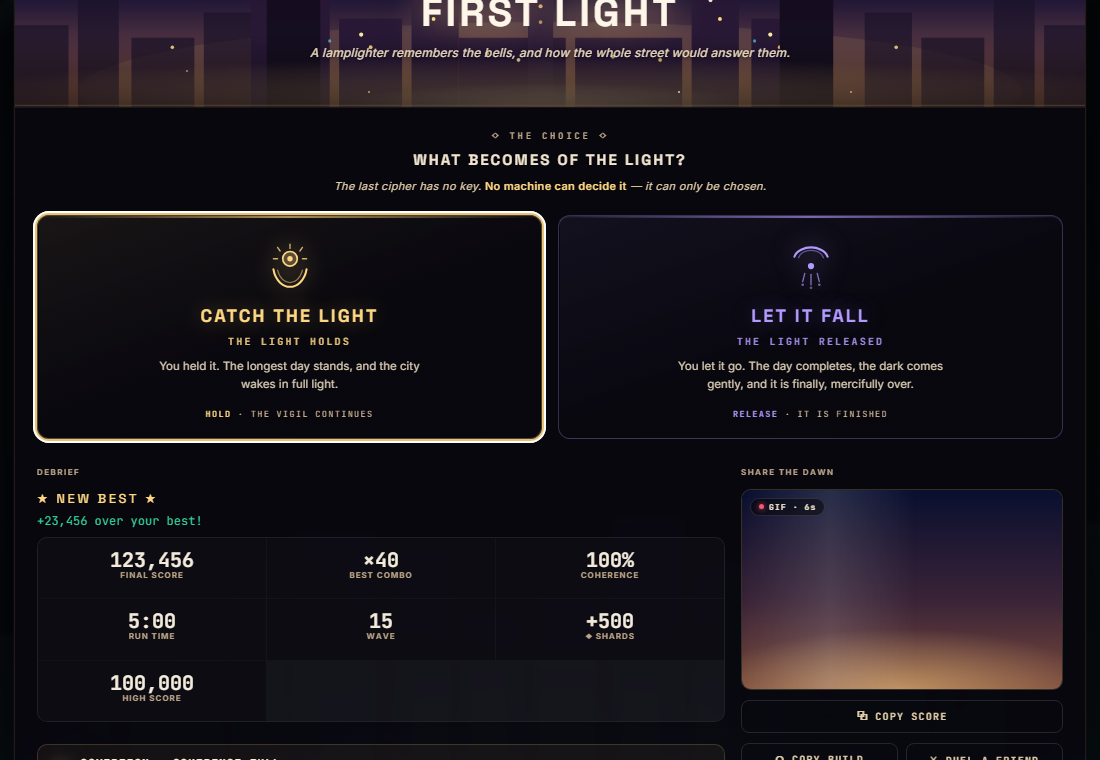
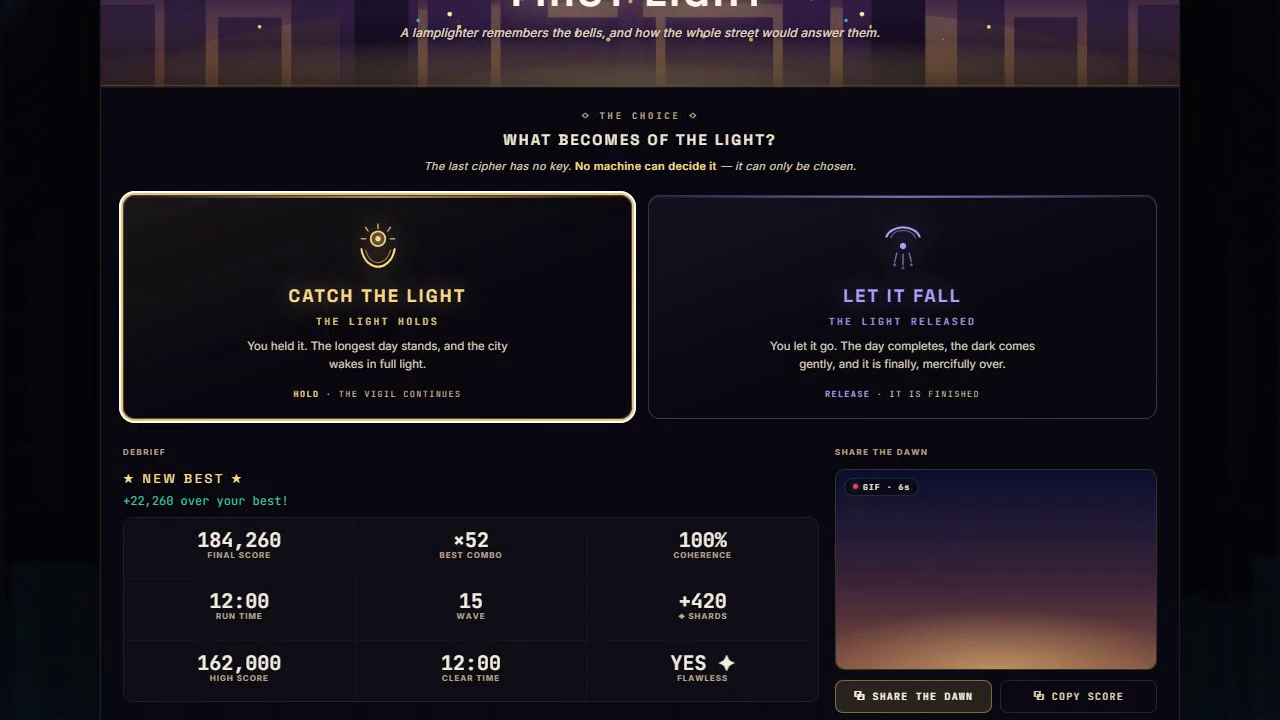
chore(lancefall): final submission polish — press art, mobile/visual integration, bundle-size accuracy
- press/: retaken gameplay + win screenshots for the new boss-cipher visuals, a 1080p FIRST LIGHT hero, a hi-res title cockpit, and the boss-cipher GIF; SOLSTICE_JAM_SUBMISSION screenshot/cover refs updated to match (mobile + press passes).
- src/ui.ts + src/style.css: final mobile-layer / visual integration tweaks left uncommitted by the finishing agents.
- docs: corrected the stale ~125 KB -> ~290 KB gzipped bundle claim across README + SUBMISSION + jam writeup to match the current build (255 KB JS + 36 KB CSS gzipped).

Gate: 1491 tests, production build, and minified-preview boot verified on desktop + mobile (0 console errors).

diff --git a/src/style.css b/src/style.css
@@ -2947,7 +2947,7 @@ body {
   display: flex;
   align-items: center;
   justify-content: space-between;
-  gap: 20px;
+  gap: 16px;
   padding: 0 6px 14px;
   border-bottom: 1px solid rgba(255, 255, 255, 0.05);
   flex-wrap: wrap;
@@ -3156,10 +3156,11 @@ body {
 .ck-coh {
   flex: 1;
   max-width: 400px;
-  min-width: 220px;
-  /* mock: 40px breathing room either side of the dial (relaxes toward 20px on narrow headers,
-     keeping the fluid-layout philosophy rather than a hard 40px that crowds small screens). */
-  margin: 0 clamp(20px, 4vw, 40px);
+  /* lower floor + slightly tighter side margins than the original (220px / 40px) so the
+     decorative dial absorbs the 4th STREAK stat's width and the header doesn't wrap — it
+     still sits comfortably wide (~270px) at normal widths. */
+  min-width: 170px;
+  margin: 0 clamp(14px, 3vw, 32px);
 }
 .ck-coh-row {
   display: flex;
@@ -3266,7 +3267,9 @@ body {
   align-items: stretch;
 }
 .ck-hstat {
-  padding: 4px 20px;
+  /* 15px (was 20) gives the 4th STREAK stat room without the header wrapping; a 5px trim that
+     reads the same but keeps BEST RUN/COMBO/SHARDS + STREAK on one line down to ~1060px. */
+  padding: 4px 15px;
   border-left: 1px solid rgba(255, 255, 255, 0.07);
   text-align: center;
 }
@@ -3293,21 +3296,19 @@ body {
 .ck-hstat-val.run { color: #22d3ee; }
 .ck-hstat-val.combo { color: #a78bfa; }
 .ck-hstat-val.shards { color: #4ade80; }
-/* 4.2 — daily-streak retention chip (header). Lives left of the stat columns. */
-.ck-streak {
+/* 4.2 — daily-streak nudge: a QUIET, compact amber 🔥N tucked after SHARDS (no label, so it adds
+   almost no width — keeps the header from wrapping). flex-end baselines it with the stat numbers;
+   only appears at a 2+ day streak. The .hidden rule follows so it wins over the flex display. */
+.ck-streak.ck-hstat {
   display: flex;
-  align-items: center;
-  gap: 4px;
-  align-self: center;
-  margin-right: 14px;
-  padding: 5px 12px;
-  border-radius: 999px;
-  border: 1px solid rgba(251, 146, 60, 0.5);
-  background: rgba(251, 146, 60, 0.12);
+  align-items: flex-end;
+  justify-content: center;
+  padding: 4px 4px 4px 2px;
+}
+.ck-hstat-val.streak {
   color: #fdba74;
-  font-size: 11px;
-  font-weight: 800;
-  letter-spacing: 0.06em;
+  font-size: 18px;
+  margin-bottom: 1px;
   white-space: nowrap;
 }
 .ck-streak.hidden { display: none; }
@@ -4492,8 +4493,7 @@ body {
 .ck-change-ship:focus-visible,
 .ck-customize:focus-visible,
 .ck-step:focus-visible,
-.ck-nav-btn:focus-visible,
-.ck-streak:focus-visible {
+.ck-nav-btn:focus-visible {
   outline: 2px solid #fff;
   outline-offset: 2px;
   box-shadow: 0 0 0 4px rgba(var(--accent-rgb, 34, 211, 238), 0.9);

diff --git a/src/ui.ts b/src/ui.ts
@@ -613,7 +613,8 @@ export class UI {
   private cohTrack!: HTMLElement;
   private hsCombo!: HTMLElement;
   private hsShards!: HTMLElement;
-  private hsStreak!: HTMLElement; // 4.2 — "🔥 N day streak" header chip (hidden below 2)
+  private hsStreak!: HTMLElement; // 4.2 — quiet "STREAK 🔥N" header stat column (hidden below 2)
+  private hsStreakVal!: HTMLElement; // the streak stat's value node
   private cockpitSolstice!: HTMLElement;
   private heroSeedRow!: HTMLElement;
   private heroTitle!: HTMLElement;
@@ -1167,15 +1168,23 @@ export class UI {
     this.hsCombo = el('div', { class: 'ck-hstat-val combo' }, '—');
     this.shardLine = el('div', { class: 'ck-hstat-val shards' }, '—');
     this.hsShards = this.shardLine;
-    // 4.2 — daily-streak retention chip; hidden until the player has a 2+ day streak.
-    this.hsStreak = el('div', { class: 'ck-streak hidden', title: 'Consecutive days played — keep it alive!' }, '');
+    // 4.2 — daily-streak nudge as a QUIET, compact 🔥N stat tucked after SHARDS (no label, so it
+    // adds almost no width — the header doesn't get pushed into wrapping). Baseline-aligned with
+    // the stat numbers via CSS. Hidden until a 2+ day streak; after SHARDS so BEST RUN stays
+    // :first-child (keeps its borderless leading edge). The tooltip carries the full meaning.
+    this.hsStreakVal = el('div', { class: 'ck-hstat-val streak' }, '');
+    this.hsStreak = el(
+      'div',
+      { class: 'ck-hstat ck-streak hidden', title: 'Consecutive days played — keep it alive!' },
+      this.hsStreakVal,
+    );
     const hdrRight = el(
       'div',
       { class: 'ck-hdr-right' },
-      this.hsStreak,
       el('div', { class: 'ck-hstat' }, el('div', { class: 'ck-hstat-lbl' }, 'BEST RUN'), this.hsBest),
       el('div', { class: 'ck-hstat' }, el('div', { class: 'ck-hstat-lbl' }, 'BEST COMBO'), this.hsCombo),
       el('div', { class: 'ck-hstat' }, el('div', { class: 'ck-hstat-lbl' }, 'SHARDS'), this.hsShards),
+      this.hsStreak,
     );
     const header = el('div', { class: 'ck-header' }, hdrLeft, coherence, hdrRight);
 
@@ -1289,6 +1298,7 @@ export class UI {
       'div',
       { class: 'ck-col ck-col-center' },
       this.centerSec,
+      this.cockpitSolstice, // SOLSTICE event banner — slim line above the run hero (only shows on the solstice)
       hero,
       this.infoBar,
       this.rewardRow,
@@ -1524,7 +1534,7 @@ export class UI {
     this.title = el(
       'div',
       { class: 'screen screen-title screen-cockpit' },
-      el('div', { class: 'ck-frame' }, header, this.cockpitSolstice, this.mainPanel, bottomNav, this.soundHint, this.dailyCaption),
+      el('div', { class: 'ck-frame' }, header, this.mainPanel, bottomNav, this.soundHint, this.dailyCaption),
       this.lightLance,
     );
   }
@@ -3119,13 +3129,14 @@ export class UI {
     this.hsBest.textContent = save.highScore > 0 ? save.highScore.toLocaleString() : '—';
     this.hsCombo.textContent = save.bestCombo > 0 ? `×${save.bestCombo}` : '—';
     this.hsShards.textContent = `◆ ${save.shards.toLocaleString()}`;
-    // 4.2 — show the streak chip only once a 2+ day streak is alive
+    // 4.2 — show the quiet STREAK stat only once a 2+ day streak is alive
     const streaking = save.playStreak >= 2;
     this.hsStreak.classList.toggle('hidden', !streaking);
-    if (streaking) this.hsStreak.textContent = `🔥 ${save.playStreak} day streak`;
+    if (streaking) this.hsStreakVal.textContent = `🔥${save.playStreak}`;
 
-    // ── CITY COHERENCE bar — REAL now: a save-derived %, dynamic tagline, a11y-safe eased fill.
-    //    Agrees with the cockpit backdrop + the BOMBE master meter (all decryption-led). ──
+    // CITY COHERENCE bar — REAL now: a save-derived %, dynamic tagline, a11y-safe eased fill.
+    // Agrees with the cockpit backdrop + the BOMBE master meter (all decryption-led). Also
+    // refreshed on closeModal so decrypting in THE BOMBE lands on a current bar.
     this.refreshCoherence(save);
 
     // NG+ toggle — appears only once the Sovereign has been felled

diff --git a/docs/SOLSTICE_JAM_SUBMISSION.md b/docs/SOLSTICE_JAM_SUBMISSION.md
@@ -57,7 +57,7 @@ This is my entry for **Best Ode to Alan Turing**.
 
 The honest headline: this was built **from scratch, for the jam** — first commit 8 June 2026, **674 commits over 13 days** — and it's a real game engine, not a single HTML file.
 
-- **No framework, all by hand.** Vanilla TypeScript, Canvas 2D, and the Web Audio API — no game engine, no UI library. A fixed-timestep simulation holds a steady **60 fps**, decoupled from one global time-scale so slow-motion and hit-stop layer for free; object pools keep the hot path allocation-free; and the dash uses *swept* collision so even the fastest dash never tunnels through an enemy. About **125 KB** gzipped, in one browser tab.
+- **No framework, all by hand.** Vanilla TypeScript, Canvas 2D, and the Web Audio API — no game engine, no UI library. A fixed-timestep simulation holds a steady **60 fps**, decoupled from one global time-scale so slow-motion and hit-stop layer for free; object pools keep the hot path allocation-free; and the dash uses *swept* collision so even the fastest dash never tunnels through an enemy. About **290 KB** gzipped, in one browser tab.
 - **The cipher is pure — and it never touches chance.** The whole code-breaking layer is built to draw **zero** randomness from the game's scoring. That sounds small; it's the part I'm proudest of. It means the **daily challenge is identical for every player on earth** — same enemies, same bullets, same cipher — and that bolting a brand-new code-breaking system on top couldn't shift that shared world by a single bit. A deterministic machine, provably unchanged. That felt like the right way to honour Turing.
 - **I made the cipher real, not a quiz.** The first version printed the answer as numbers and highlighted the next target — so you were matching numbers, not breaking a code. I tore it out: now the symbols sit on the boss, the key sits on the HUD, and nothing is highlighted. You genuinely read, deduce, and decode under fire. A wrong step just fizzles, so it stays *cryptanalysis*, not a memory test.
 - **1,400+ automated tests** — the part I almost never see in a jam. The whole simulation is covered, including a test that plays a cipher from start to finish and a guard that runs the daily seed and checks the entire wave-by-wave stream still matches, exactly, so the shared challenge can never silently drift. Every change went through the tests, a type-check, a production build, and an in-browser smoke run before it shipped.
@@ -66,7 +66,7 @@ The honest headline: this was built **from scratch, for the jam** — first comm
 
 > *[Video — upload the ~83-second trailer to YouTube (unlisted is fine) and paste the URL on its own line; dev.to auto-embeds it. File: `press/lancefall-trailer.mp4`.]*
 
-> *[Screenshots — upload `press/gameplay-cipher.png` (a cipher mid-decode), `press/firstlight-winframe.png` (the daybreak win), `press/the-choice.png` (the ending).]*
+> *[Screenshots — retaken & ready in `press/`; drag each into the editor: `gameplay-cipher.png` (a boss cipher mid-decode — READ THE KEY), `gameplay-combat.png` (a mid-run bullet-hell — weaving through bullet-streams and a wave of enemies), `the-choice.png` (the ending — "no machine can decide it", over a flawless win).]*
 
 ## Code
 
@@ -115,9 +115,11 @@ PUBLISH CHECKLIST — the steps only you can do:
 4. VIDEO. Upload the ~83s trailer (press/lancefall-trailer.mp4) to YouTube and
    paste the URL on its own line under "Demo".
 
-5. SCREENSHOTS. Drag these into the editor where each placeholder sits (local
-   press/… paths will NOT resolve once published):
-     press/gameplay-cipher.png · press/firstlight-winframe.png · press/the-choice.png
+5. SCREENSHOTS — RETAKEN & READY (clean, no tooltips, well-framed). Drag these in
+   where each placeholder sits (local press/… paths will NOT resolve once published):
+     press/gameplay-cipher.png · press/gameplay-combat.png · press/the-choice.png
+   COVER IMAGE: set press/firstlight-winframe.png (the 1080p key-art hero) as the
+   dev.to article cover image (the "Add a cover image" button at the top of the editor).
 
 6. DELETE every remaining "[ … ]" placeholder line after uploading its media.
 

diff --git a/docs/SUBMISSION.md b/docs/SUBMISSION.md
@@ -9,7 +9,7 @@
 - **Jam:** June Solstice Game Jam (an ode to Alan Turing)
 - **Play (no download, ~60 fps, one browser tab):** https://lancefall.pages.dev
 - **Genre:** neon dash-combat bullet-hell roguelite
-- **Engine:** Vite + vanilla TypeScript · Canvas 2D · Web Audio · ~125 KB gzipped client · 1,400+ unit tests
+- **Engine:** Vite + vanilla TypeScript · Canvas 2D · Web Audio · ~290 KB gzipped client · 1,400+ unit tests
 - **Theme fit:** *solstice = the longest day*; the fall of the city was an **encryption** into grey
   noise, and you are the last **key** — break each boss's cipher-lock to decrypt the world back
   into light. The final choice is the one cipher no machine can solve, only choose.
@@ -96,7 +96,7 @@ mirror-boss is the imitation game).
 > assist highlights on. It's off the leaderboards so the boards stay honest.
 
 ### Made with (page body — footer)
-Vite + vanilla TypeScript, Canvas 2D, Web Audio — no engine, no framework, ~125 KB gzipped, 1,400+
+Vite + vanilla TypeScript, Canvas 2D, Web Audio — no engine, no framework, ~290 KB gzipped, 1,400+
 unit tests over the deterministic core. Built in a focused multi-agent session for the June
 Solstice Jam. CC0/CC-BY/Pixabay audio with a machine-checked license ledger. Source-available under the PolyForm Noncommercial License (commercial rights reserved by patij212).
 
@@ -161,7 +161,7 @@ an 8-level Heat ladder, 6 ships, evolving biomes, optional leaderboards, and a 7
 gallery. Plus a no-fail tutorial, a Casual mode for run 1, and a deep accessibility menu
 (reduce-flashing/-motion, colorblind shapes, Clarity high-contrast, rebindable keys).
 
-No engine, no framework — Vite + vanilla TypeScript, Canvas 2D, Web Audio, ~125 KB gzipped, 1,400+
+No engine, no framework — Vite + vanilla TypeScript, Canvas 2D, Web Audio, ~290 KB gzipped, 1,400+
 unit tests over the deterministic core. Plays in a browser tab, no download.
 
 ▶️ **Play:** https://lancefall.pages.dev

diff --git a/README.md b/README.md
@@ -128,7 +128,7 @@ npm run audio:validate   # 48 kHz, integer-bar loops, ≤ 8 MB, + the provenance
 ```bash
 npm install
 npm run dev      # http://localhost:5197
-npm run build    # production bundle (~125 KB gzipped, excl. fonts)
+npm run build    # production bundle (~290 KB gzipped, excl. fonts)
 npm run preview
 ```
 